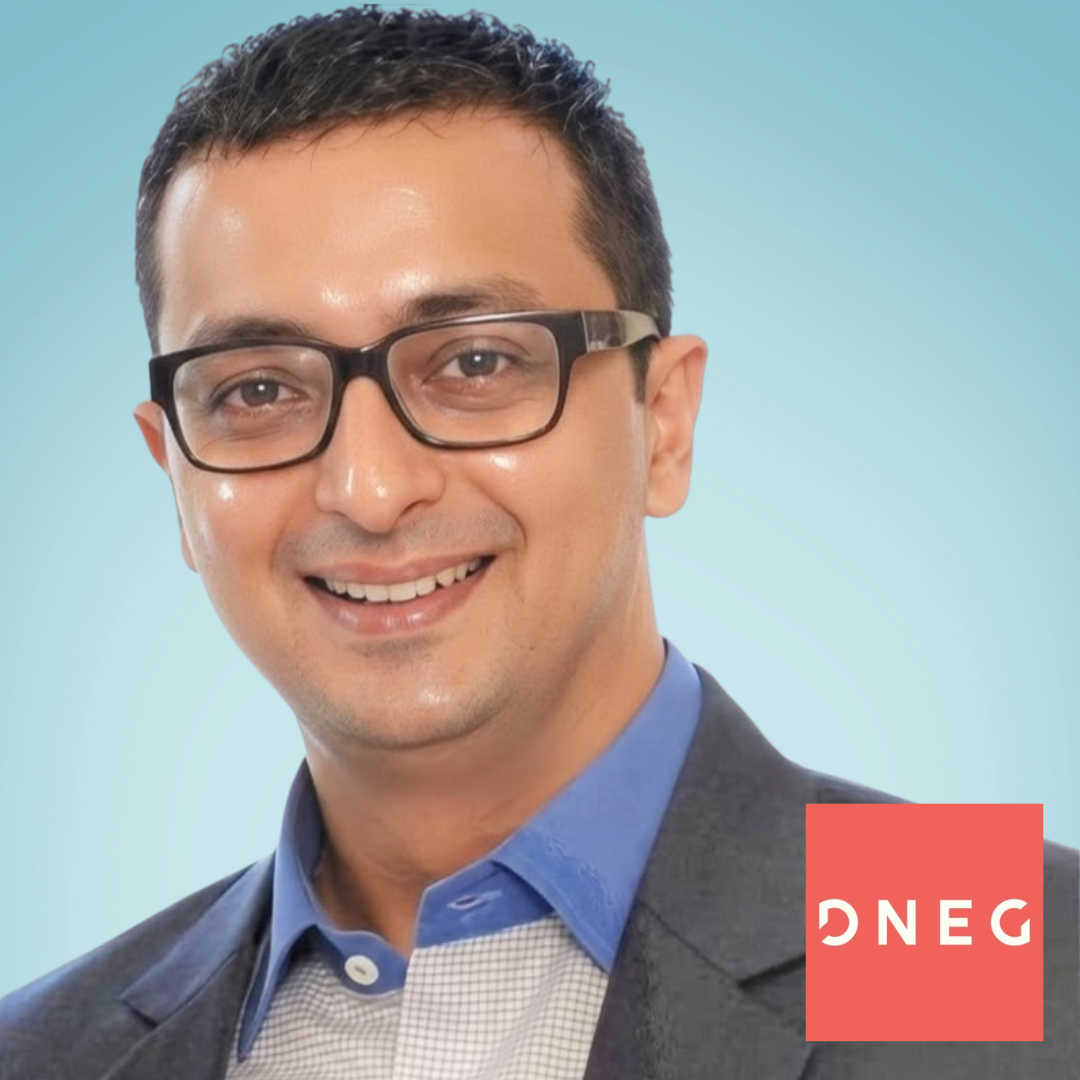
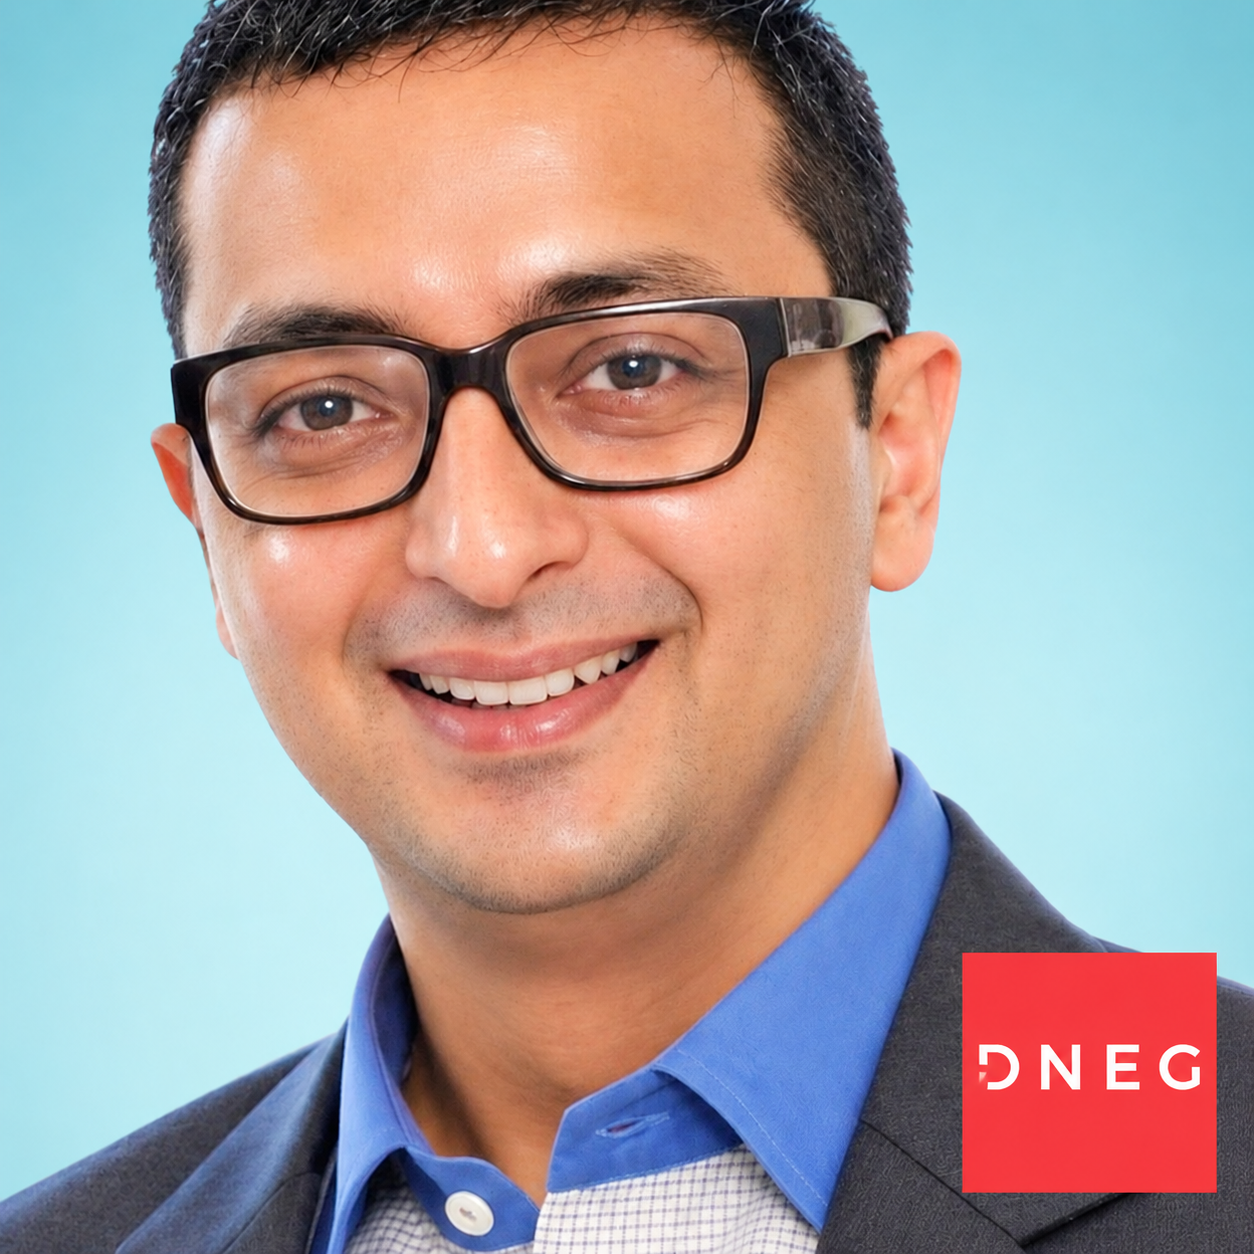
Use updated Zameer Nathani photo on Mumbai speakers

diff --git a/src/app/mumbai-2026/mumbai-speakers-list.tsx b/src/app/mumbai-2026/mumbai-speakers-list.tsx
@@ -237,7 +237,7 @@ Attreyi has co-authored successive editions of the top selling book on POSH - Ha
     {
         name: "Zameer Nathani",
         title: "Global General Counsel - Group, DNEG",
-        image: "/mumbai-2026/Mumbai_Speakers/Zameer Nathani.png",
+        image: "https://res.cloudinary.com/djagw0s4d/image/upload/v1792127803/lextalk/mumbai-speakers/zameer-nathani.png",
     },
     {
         name: "Sachin Mishra",
